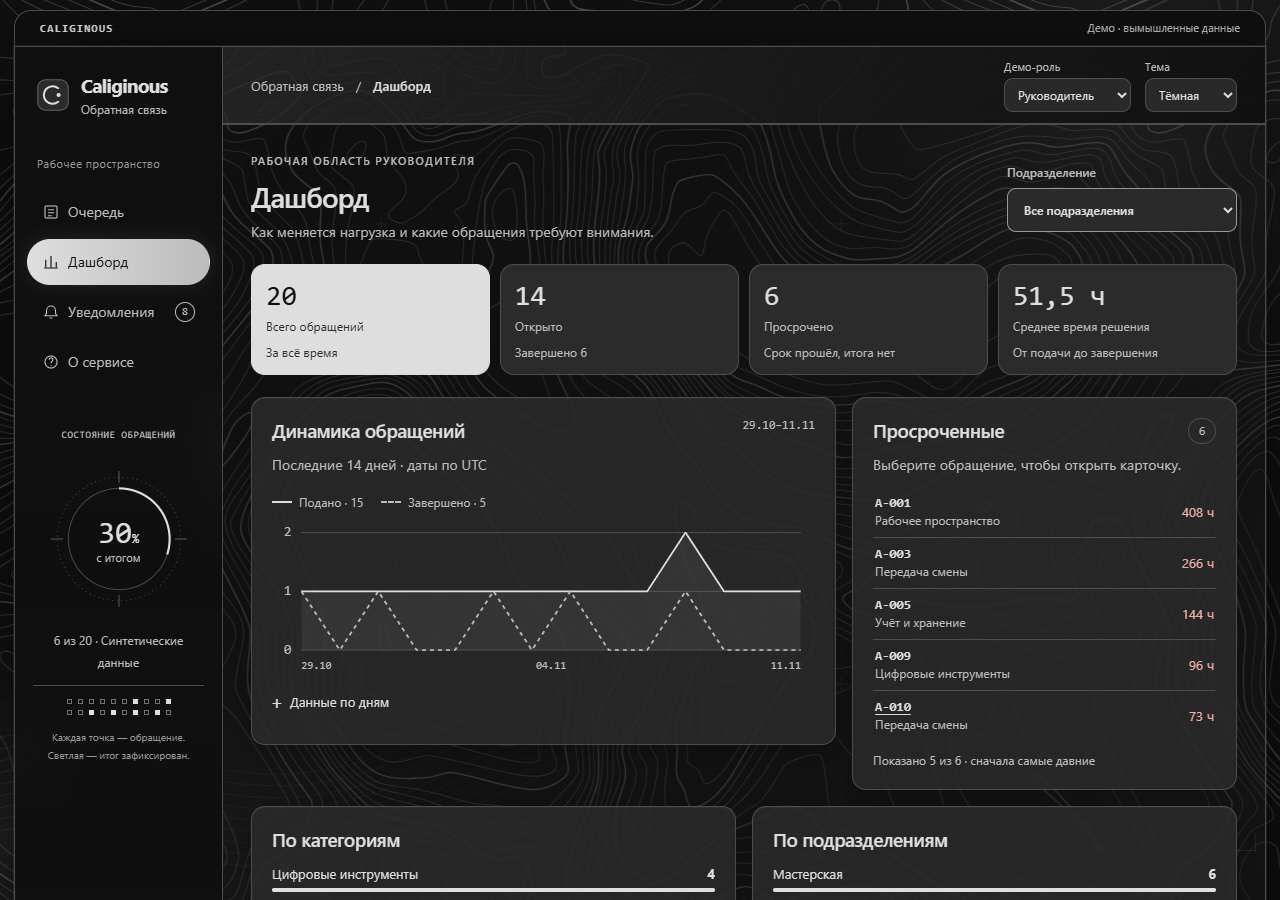
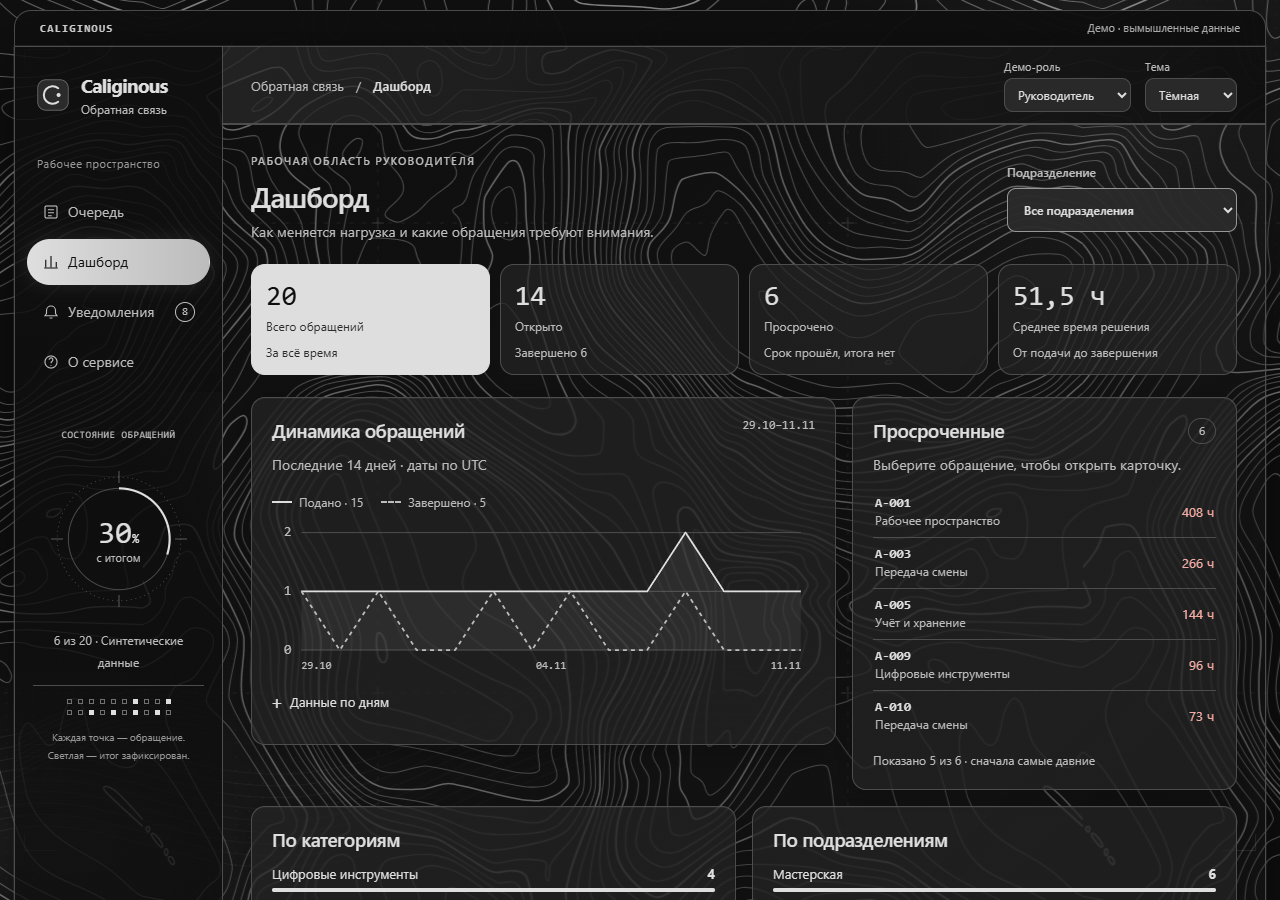
fix: make terrain visible through glass panels

diff --git a/motion.css b/motion.css
@@ -1,29 +1,31 @@
-/* The contour mask is independent of the panel tint and stays still on scroll. */
+/* Draw the contour artwork directly so it also renders when the demo is opened as a local file. */
 body { isolation: isolate; }
 
-@supports (mask-image: url('terrain.svg')) {
-  body::before {
-    content: '';
-    position: fixed;
-    inset: 0;
-    z-index: -1;
-    pointer-events: none;
-    background: #4d4d4d52;
-    mask: url('terrain.svg') 42% 30% / 920px 920px repeat;
-  }
+body::before {
+  content: '';
+  position: fixed;
+  inset: 0;
+  z-index: -1;
+  pointer-events: none;
+  background: url('terrain.svg') 42% 30% / 940px 940px repeat;
+  opacity: .34;
+  filter: brightness(0);
+}
 
-  body.dark::before { background: #bcbcbc5c; }
-  body.dark .app { background: #0f0f0f30; }
-  body.dark .workspace { background: linear-gradient(135deg, #0f0f0f26, #19191960 78%, #0f0f0f38); }
-  body:not(.dark) .app { background: #dedede65; }
+body.dark::before { opacity: .54; filter: none; }
+body.dark .app { background: #0f0f0f26; }
+body.dark .workspace { background: linear-gradient(135deg, #0f0f0f1c, #19191945 78%, #0f0f0f28); }
+body:not(.dark) .app { background: #dedede45; }
+body.dark .sidebar { background: linear-gradient(180deg, #0f0f0fe0, #0f0f0fb3); }
+body.dark .sidebar::after { display: none; }
+body:not(.dark) .sidebar { background: #f5f5f5c2; }
 
-  body.dark .panel { background: #2b2b2bd1; }
-  body:not(.dark) .panel { background: #f4f4f4d4; }
-  .dash-panel, .summarygrid .panel { backdrop-filter: blur(1px); }
+body.dark :is(.panel, .metrics .metric:not(:first-child)) { background: #252525ad; }
+body:not(.dark) :is(.panel, .metrics .metric:not(:first-child)) { background: #f4f4f4b8; }
+.dash-panel, .summarygrid .panel { backdrop-filter: blur(.55px); }
 
-  @media (max-width: 560px) {
-    body::before { mask-size: 670px 670px; }
-  }
+@media (max-width: 560px) {
+  body::before { background-size: 660px 660px; }
 }
 
 .view-tools .motion-toggle { margin-top: 9px; }

diff --git a/index.html b/index.html
@@ -1,5 +1,5 @@
 <!doctype html>
-<html lang="ru"><head><meta charset="utf-8"><meta name="viewport" content="width=device-width,initial-scale=1"><meta name="color-scheme" content="dark light"><meta name="description" content="Caliginous — интерактивное дизайн-демо сервиса обратной связи сотрудников."><title>Caliginous — обратная связь сотрудников</title><link rel="icon" href="mark.svg" type="image/svg+xml"><link rel="stylesheet" href="prototype.css"><link rel="stylesheet" href="moodboard.css"><link rel="stylesheet" href="dashboard.css"><link rel="stylesheet" href="release.css"><link rel="stylesheet" href="motion.css"></head>
+<html lang="ru"><head><meta charset="utf-8"><meta name="viewport" content="width=device-width,initial-scale=1"><meta name="color-scheme" content="dark light"><meta name="description" content="Caliginous — интерактивное дизайн-демо сервиса обратной связи сотрудников."><title>Caliginous — обратная связь сотрудников</title><link rel="icon" href="mark.svg" type="image/svg+xml"><link rel="stylesheet" href="prototype.css"><link rel="stylesheet" href="moodboard.css"><link rel="stylesheet" href="dashboard.css"><link rel="stylesheet" href="release.css"><link rel="stylesheet" href="motion.css?v=contours-2"></head>
 <body class="dark">
 <a class="skip" href="#main">Перейти к содержимому</a>
 <div class="prototype-bar"><span><b>CALIGINOUS</b></span><span>Демо · вымышленные данные</span></div>
